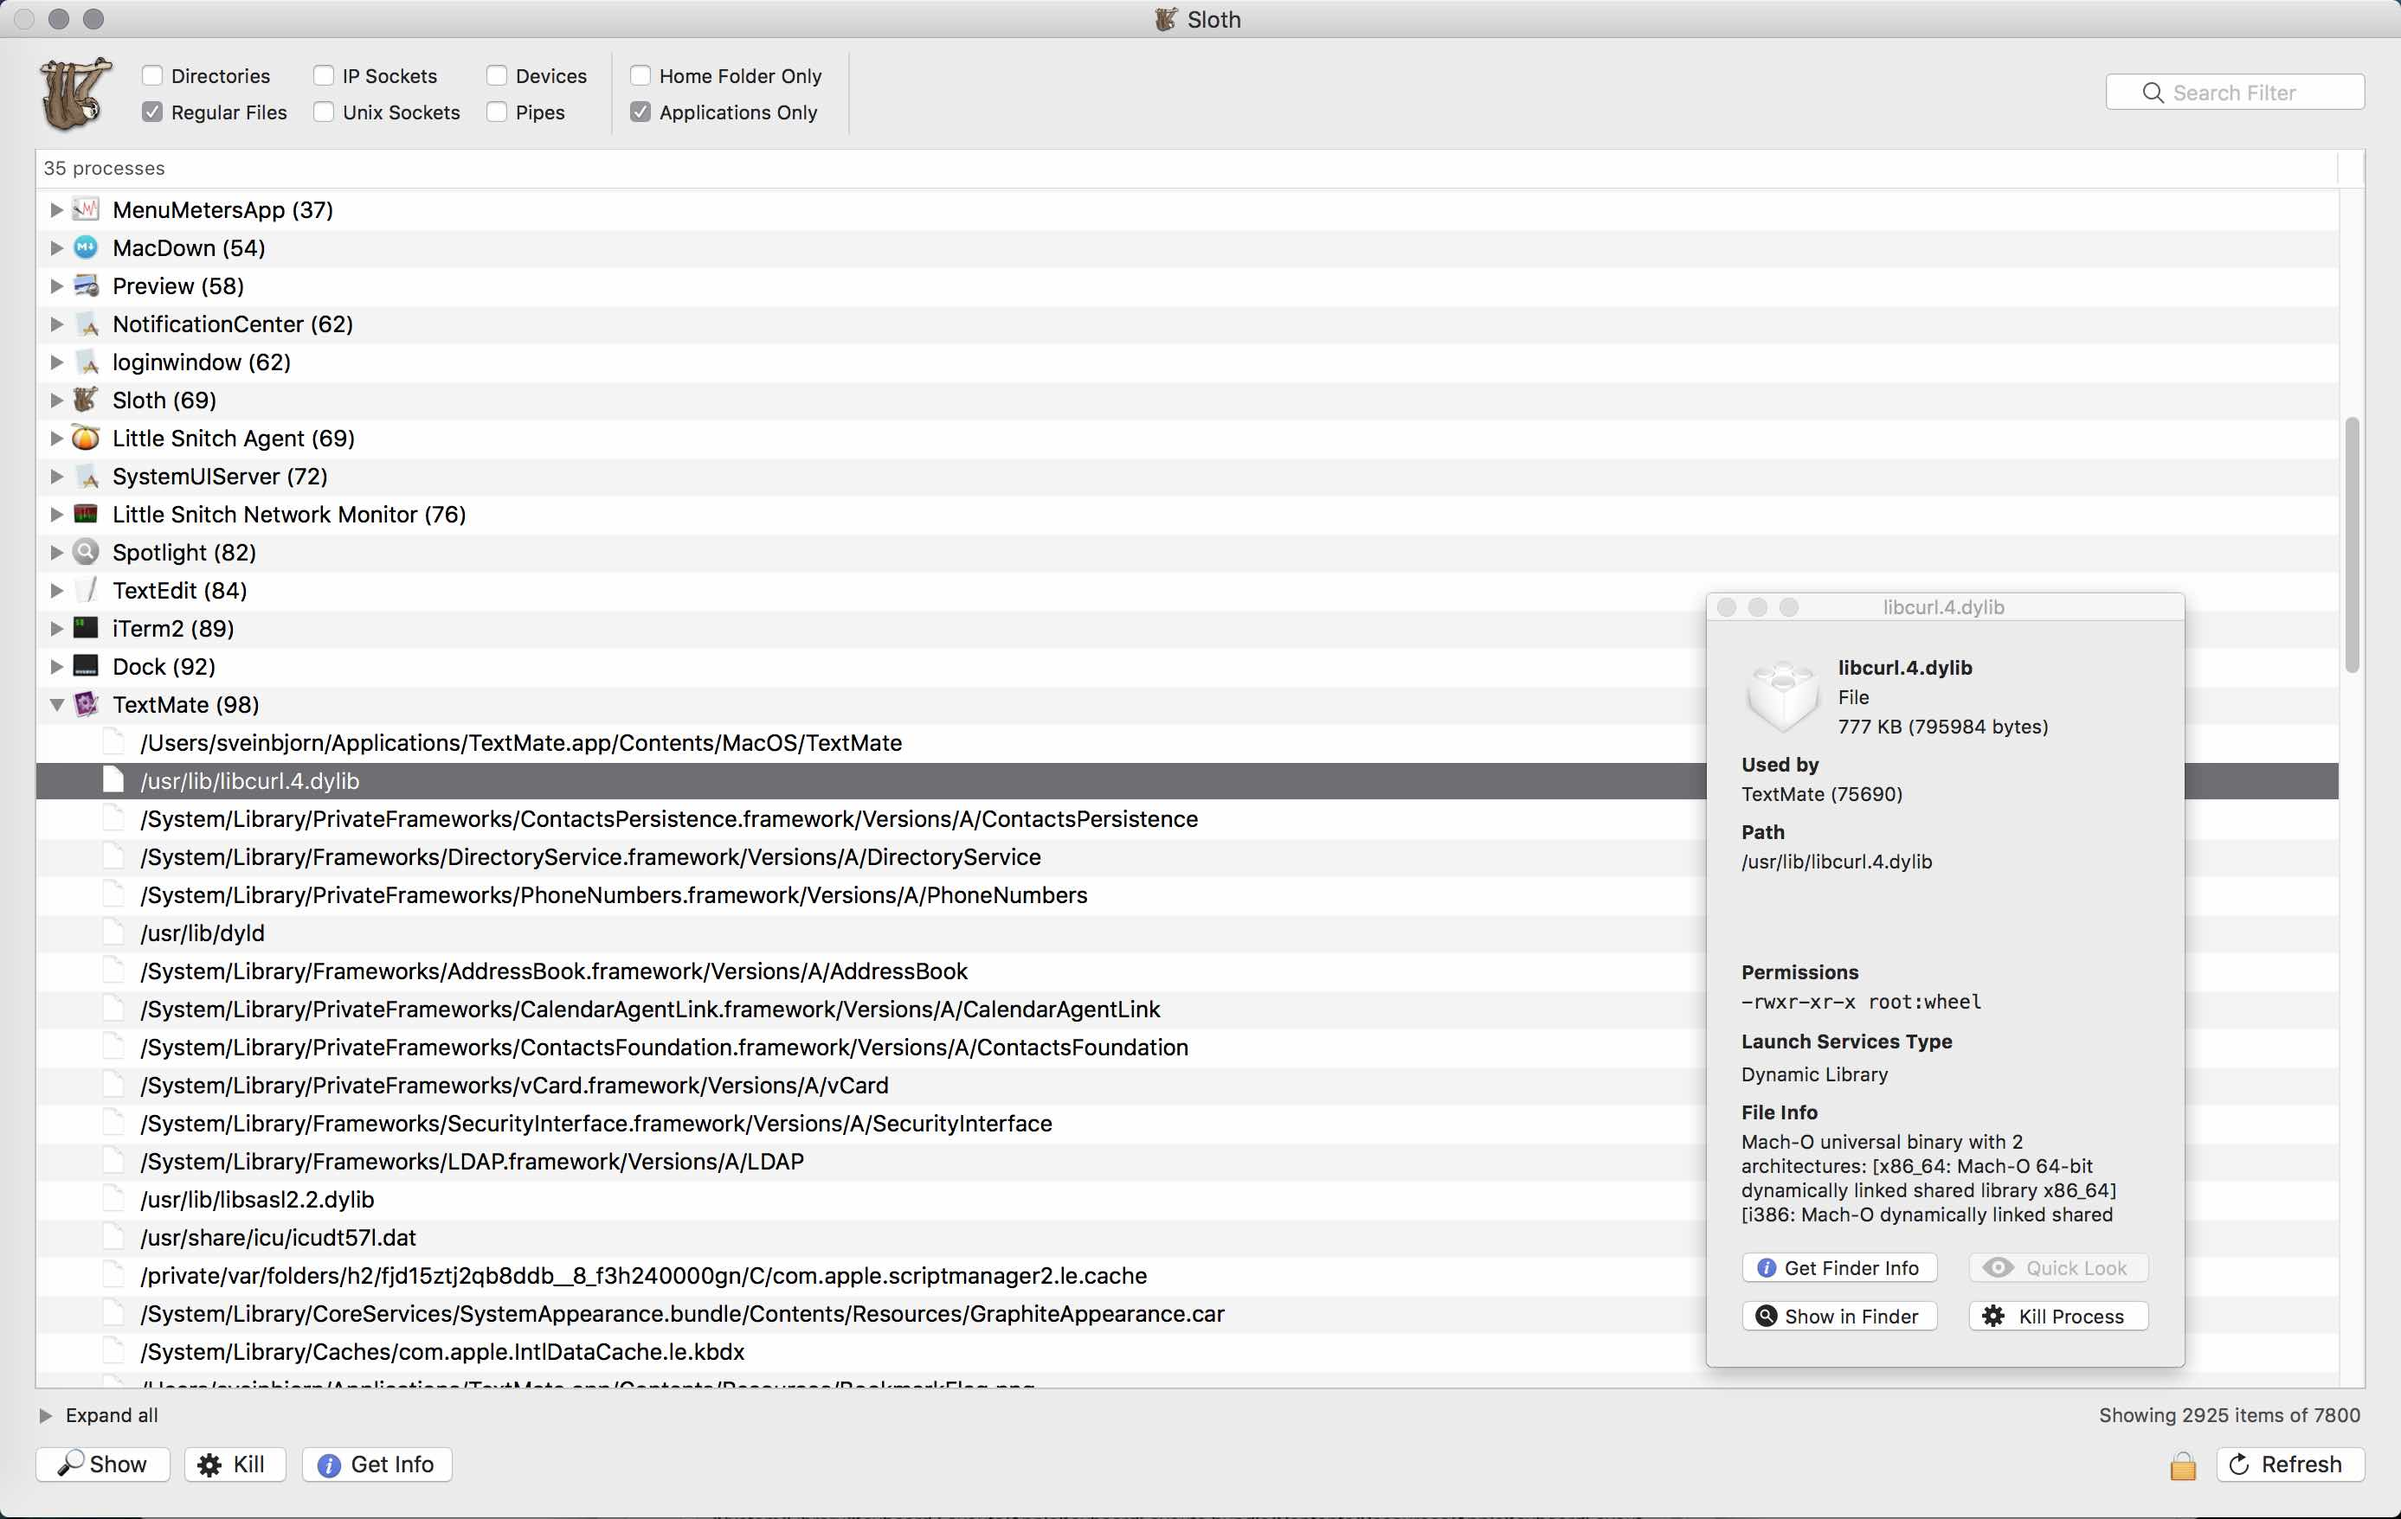
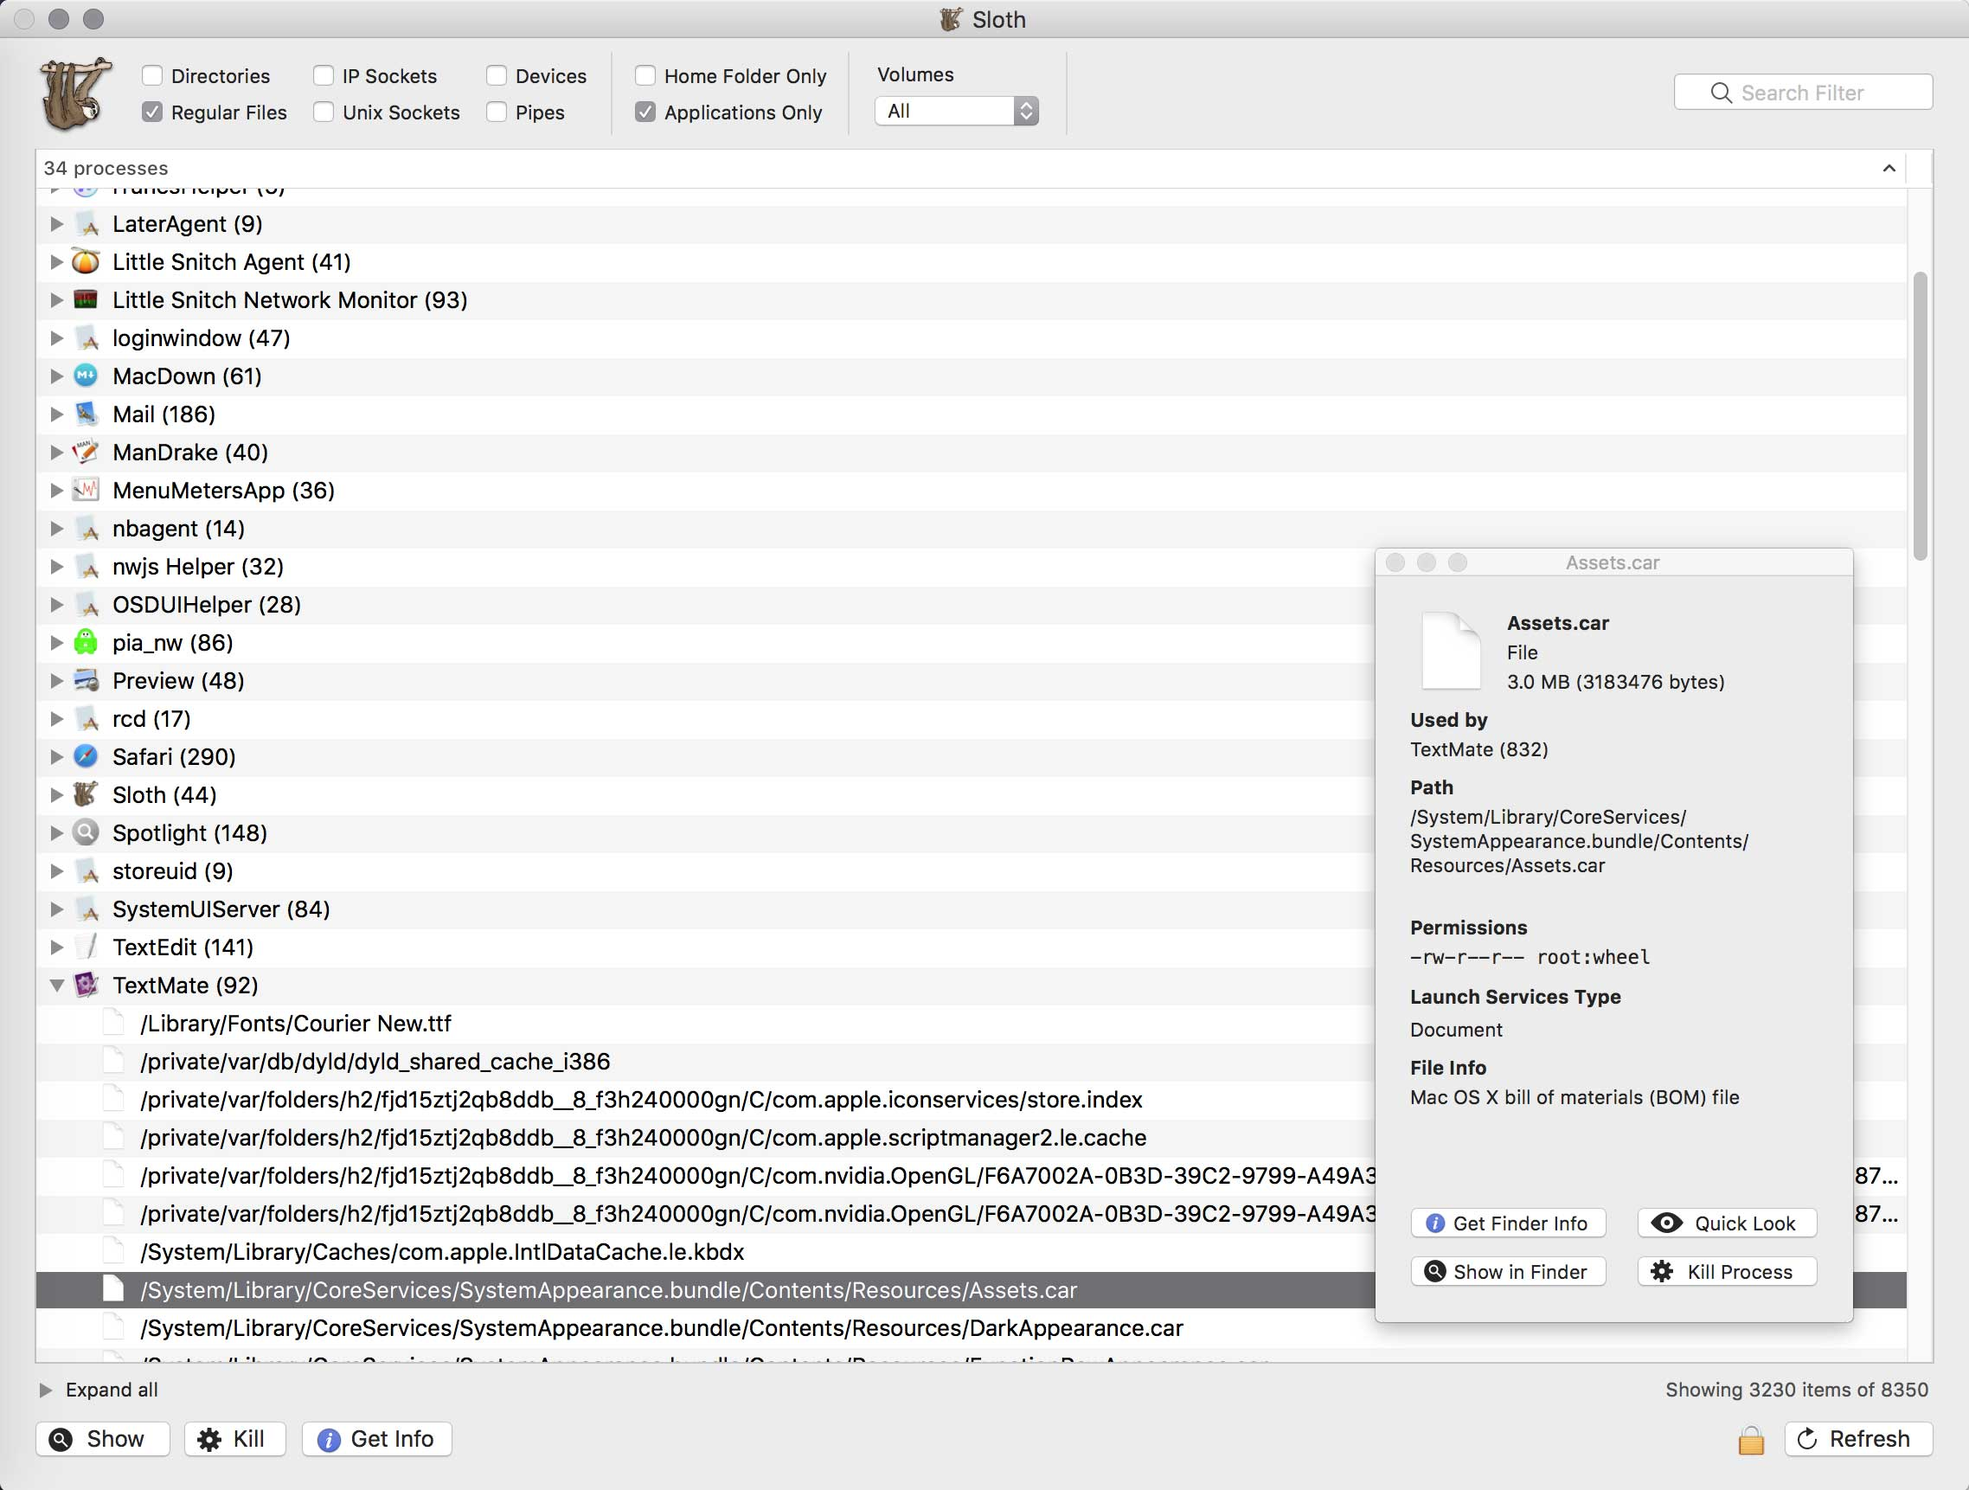
Prepped for 2.0 release

diff --git a/source/SlothController.m b/source/SlothController.m
@@ -218,6 +218,8 @@ static inline uid_t uid_for_pid(pid_t pid) {
     }
     [window makeKeyAndOrderFront:self];
     
+    //[self updateSorting];
+    
     [self performSelector:@selector(refresh:) withObject:self afterDelay:0.05];
 }
 
@@ -292,7 +294,12 @@ static inline uid_t uid_for_pid(pid_t pid) {
     BOOL showApplicationsOnly = [DEFAULTS boolForKey:@"showApplicationsOnly"];
     BOOL showHomeFolderOnly = [DEFAULTS boolForKey:@"showHomeFolderOnly"];
     
-    NSString *volumesFilter = [[volumesPopupButton selectedItem] toolTip];
+    // Volumes filter
+    NSString *volumesFilter = nil;
+    BOOL hasVolumesFilter = ([[[volumesPopupButton selectedItem] title] isEqualToString:@"All"] == NO);
+    if (hasVolumesFilter) {
+        volumesFilter = [[volumesPopupButton selectedItem] toolTip];
+    }
     
     // User home dir path prefix
     NSString *homeDirPath = [NSString stringWithFormat:@"/Users/%@", NSUserName()];
@@ -320,10 +327,10 @@ static inline uid_t uid_for_pid(pid_t pid) {
 
     BOOL showAllProcessTypes = !showApplicationsOnly;
     BOOL showAllFileTypes = (showRegularFiles && showDirectories && showIPSockets && showUnixSockets
-                         && showCharDevices && showPipes && !showHomeFolderOnly && ([volumesFilter isEqualToString:@""] || !volumesFilter));
+                         && showCharDevices && showPipes && !showHomeFolderOnly);
     
     // If there is no filter, just return unfiltered content
-    if (showAllFileTypes && showAllProcessTypes && !hasRegexFilter) {
+    if (showAllFileTypes && showAllProcessTypes && !hasRegexFilter && !hasVolumesFilter) {
         *matchingFilesCount = self.totalFileCount;
         return unfilteredContent;
     }
@@ -394,7 +401,6 @@ static inline uid_t uid_for_pid(pid_t pid) {
 - (IBAction)refresh:(id)sender {
     
     isRefreshing = YES;
-    [self updateSorting];
     [numItemsTextField setStringValue:@""];
     
     // Disable controls

diff --git a/README.md b/README.md
@@ -8,7 +8,7 @@ Sloth is a GUI built on top of the powerful `lsof` command line tool. The output
 
 ## Download
 
-* [Download Sloth 1.9](http://sveinbjorn.org/files/software/sloth.zip) (~0.5 MB, Intel 64-bit only)
+* [Download Sloth 2.0](http://sveinbjorn.org/files/software/sloth.zip) (~0.5 MB, Intel 64-bit only)
 
 ## Requirements
 
@@ -19,9 +19,15 @@ Sloth is a GUI built on top of the powerful `lsof` command line tool. The output
 
 <img src="resources/sloth_screenshot2.jpg" align="center">
 
-<img src="resources/sloth_screenshot1.png" align="center">
+<img src="resources/sloth_screenshot1.jpg" align="center">
 
 ## Version history
+
+### 01/10/2017 - Version 2.0
+
+* New Volumes filter
+* New "Sort By" submenu under View in main menu
+* Sorting by PID now correctly does numerical sort instead of alphabetic
 
 ### 07/06/2017- Version 1.9
 
